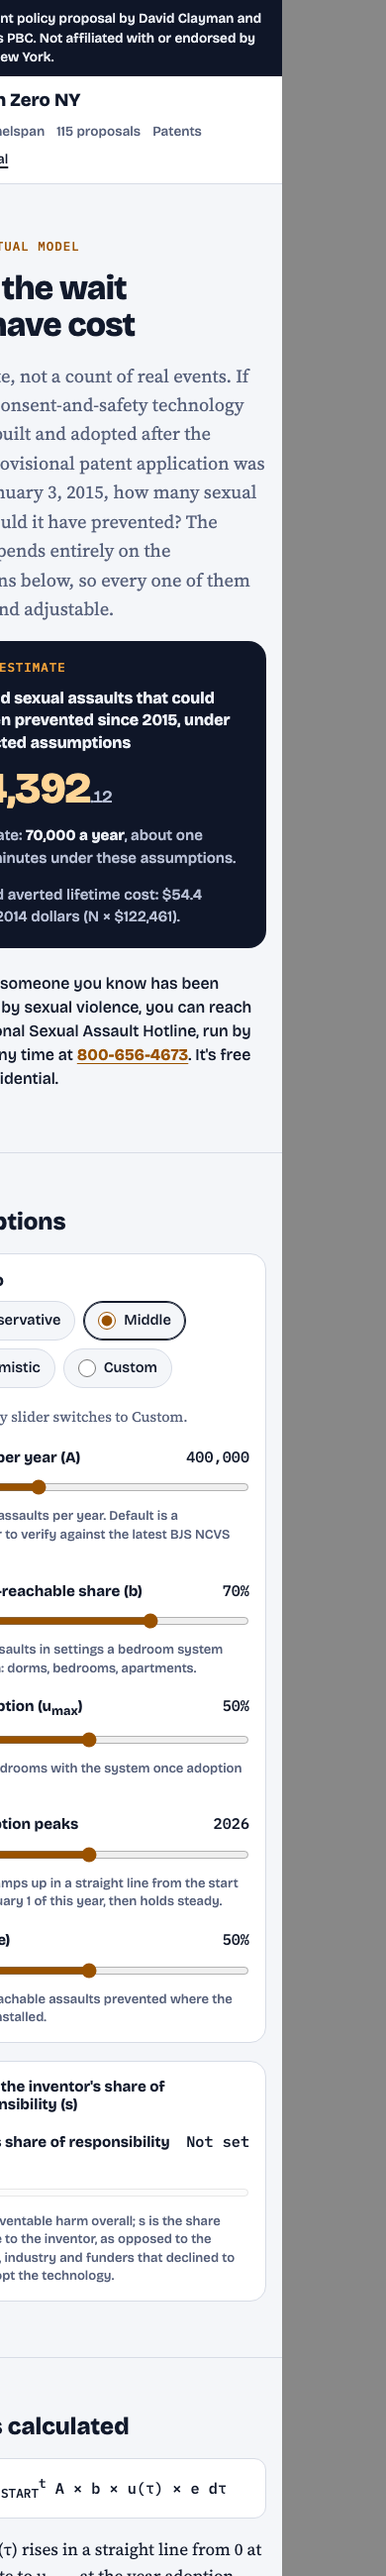
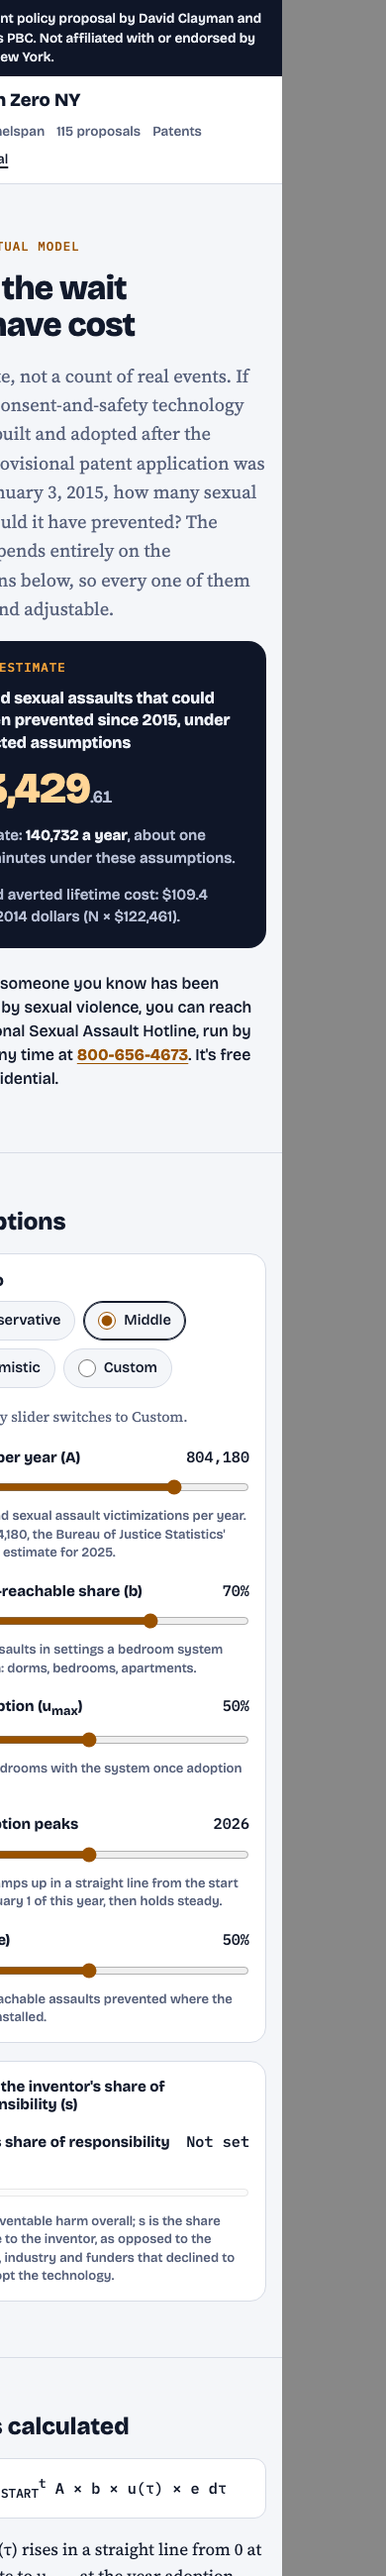
Use the BJS NCVS 2025 estimate for assaults per year
Replace the 400,000 placeholder with 804,180 rape or sexual assault
victimizations (BJS, Preliminary Victimization Estimates from the
NCVS, 2025, NCJ 312234, table 1), with source link and caveats.

diff --git a/counterfactual/index.html b/counterfactual/index.html
@@ -148,7 +148,7 @@ footer{border-top:1px solid var(--line);padding-block:32px;font:400 .85rem/1.5 v
       <div class="slider">
         <div class="top"><label for="s-A">Assaults per year (A)</label><output for="s-A" id="o-A"></output></div>
         <input type="range" id="s-A" min="100000" max="1000000" step="10000" aria-describedby="h-A">
-        <p class="hint" id="h-A">U.S. sexual assaults per year. Default is a placeholder to verify against the latest BJS NCVS report.</p>
+        <p class="hint" id="h-A">U.S. rape and sexual assault victimizations per year. Default: 804,180, the Bureau of Justice Statistics' preliminary estimate for 2025.</p>
       </div>
       <div class="slider">
         <div class="top"><label for="s-b">Bedroom-reachable share (b)</label><output for="s-b" id="o-b"></output></div>
@@ -220,7 +220,7 @@ footer{border-top:1px solid var(--line);padding-block:32px;font:400 .85rem/1.5 v
     <li>Not every assault is reachable by a bedroom system. Assaults in cars, outdoors, at work or online fall outside it.</li>
     <li>Survey estimates of sexual assault vary widely by method, wording and population, so the annual figure A is uncertain.</li>
     <li>The model assumes a constant annual rate and a simple linear adoption ramp; real adoption and prevention would be uneven.</li>
-    <li>The averted-cost figure multiplies the estimate by a per-victim lifetime cost for rape, in 2014 dollars, and is not adjusted for inflation or for differences between types of assault.</li>
+    <li>The averted-cost figure multiplies the estimate by a per-victim lifetime cost for rape, in 2014 dollars, and is not adjusted for inflation or for differences between types of assault. Because the survey counts victimizations rather than victims, and includes threatened and attempted assaults, it may overstate the cost.</li>
   </ul>
 </div></section>
 </main>
@@ -246,8 +246,8 @@ $('src-pub').textContent = longDate(CONFIG.PUBLICATION_DATE) + (CONFIG.PUBLICATI
 if (CONFIG.A_SOURCE_URL) {
   $('src-A').innerHTML = '';
   const a = document.createElement('a');
-  a.href = CONFIG.A_SOURCE_URL; a.textContent = 'Bureau of Justice Statistics, National Crime Victimization Survey';
-  $('src-A').append(fmt.format(CONFIG.A) + ' per year. ', a, '.');
+  a.href = CONFIG.A_SOURCE_URL; a.textContent = CONFIG.A_SOURCE_NAME || 'Bureau of Justice Statistics, National Crime Victimization Survey';
+  $('src-A').append(fmt.format(CONFIG.A) + ' ' + CONFIG.A_LABEL + '. ', a, '. The redesigned survey is not comparable to estimates from before 2024. Survey estimates count victimizations, not victims, and include people age 12 to 17.');
 } else {
   $('src-A').textContent = fmt.format(CONFIG.A) + ' per year. ' + CONFIG.A_LABEL + '.';
 }
@@ -331,7 +331,7 @@ function currentN(now) {
 
 function renderTable() {
   const rows = [
-    ['Assaults per year (A)', fmt.format(params.A), CONFIG.A_SOURCE_URL ? 'BJS NCVS' : 'Placeholder, to verify against the latest BJS NCVS report'],
+    ['Assaults per year (A)', fmt.format(params.A), CONFIG.A_SOURCE_URL ? (params.A === CONFIG.A ? 'BJS NCVS, 2025 preliminary estimate' : 'Custom value') : 'Placeholder, to verify against the latest BJS NCVS report'],
     ['Bedroom-reachable share (b)', pct(params.b), 'Assumption'],
     ['Peak adoption (u max)', pct(params.uMax), 'Assumption'],
     ['Adoption ramp', longDate(params.start) + ' to ' + longDate(params.rampEnd), 'Assumption'],

diff --git a/counterfactual/model.js b/counterfactual/model.js
@@ -8,11 +8,15 @@
 
 // ---- Assumptions: edit these ----------------------------------------------
 export const CONFIG = {
-  // U.S. sexual assaults per year. PLACEHOLDER: verify against the latest
-  // BJS National Crime Victimization Survey report and fill in the source URL.
-  A: 400000,
-  A_LABEL: 'Placeholder: verify against the latest BJS NCVS report',
-  A_SOURCE_URL: '', // e.g. the BJS "Criminal Victimization" report URL
+  // U.S. rape/sexual assault victimizations per year, persons age 12 or older,
+  // including threatened, attempted and completed. BJS, Preliminary
+  // Victimization Estimates from the NCVS, 2025 (NCJ 312234, October 2026),
+  // table 1: 804,180 in 2025 (preliminary; standard error 75,380).
+  // The final 2024 figure from the redesigned survey is 910,530.
+  A: 804180,
+  A_LABEL: 'rape or sexual assault victimizations of persons age 12 or older in 2025 (preliminary estimate; the final 2024 figure was 910,530)',
+  A_SOURCE_NAME: 'Bureau of Justice Statistics, Preliminary Victimization Estimates from the NCVS, 2025 (NCJ 312234, October 2026), table 1',
+  A_SOURCE_URL: 'https://bjs.ojp.gov/document/pvencvs25.pdf',
 
   // Original provisional application, U.S. 62/099,456, filed January 3, 2015.
   PROVISIONAL_APP: 'U.S. Provisional Application No. 62/099,456',

diff --git a/counterfactual/model.test.js b/counterfactual/model.test.js
@@ -93,9 +93,10 @@ test('ramp end at or before START means full adoption from START', () => {
 
 test('sanity: Middle total in late 2026 matches a hand calculation', () => {
   // Ramp Jan 3, 2015 to Jan 1, 2026 (~11 years), then ~0.85 years flat:
-  // 400,000 × 0.7 × 0.5 × 0.5 × (11/2 + 0.85) ≈ 444,000.
+  // A × 0.7 × 0.5 × 0.5 × (11/2 + 0.85).
   const n = prevented('2026-11-07', middle);
-  assert.ok(n > 420000 && n < 470000, String(n));
+  const expected = CONFIG.A * 0.7 * 0.5 * 0.5 * (11 / 2 + 0.85);
+  assert.ok(Math.abs(n - expected) / expected < 0.01, `${n} vs ${expected}`);
 });
 
 test('counting starts at the provisional filing date', () => {
